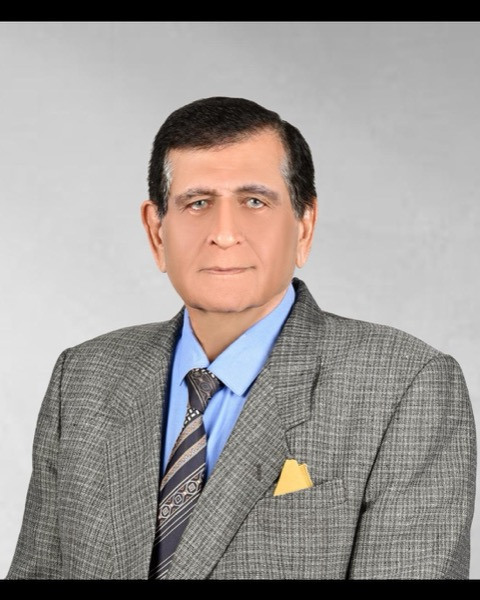
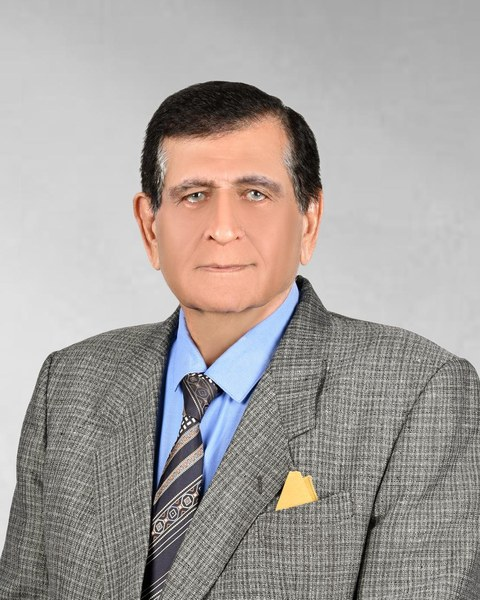
Team grid: even rows, aligned cards, fix Iqbal photo

diff --git a/style.css b/style.css
@@ -602,3 +602,12 @@ html,body{overflow-x:clip}
 @media (min-width:761px){.sub-shade{background:linear-gradient(180deg,rgba(12,11,9,.5),rgba(12,11,9,.15) 35%,rgba(12,11,9,.88))}.sub-hero p{text-shadow:0 1px 12px rgba(12,11,9,.7)}}
 
 .rera{font:500 11px/1.4 var(--sans);letter-spacing:.06em;color:var(--ink,#555);opacity:.75;margin:-4px 0 8px}
+/* team grid: even rows */
+.grid{align-items:stretch;row-gap:56px}
+.member,.member:nth-child(n){transform:none!important;display:flex;flex-direction:column}
+.member .ph{aspect-ratio:4/5;margin-bottom:18px}
+.member img{object-position:50% 18%}
+.member h3{min-height:2.5em;display:flex;align-items:flex-end}
+.member .role{min-height:1.4em}
+.rera{min-height:1.4em;margin:-2px 0 10px}
+.member .mc{margin-top:auto;padding-top:12px;border-top:1px solid var(--line,rgba(0,0,0,.1))}
